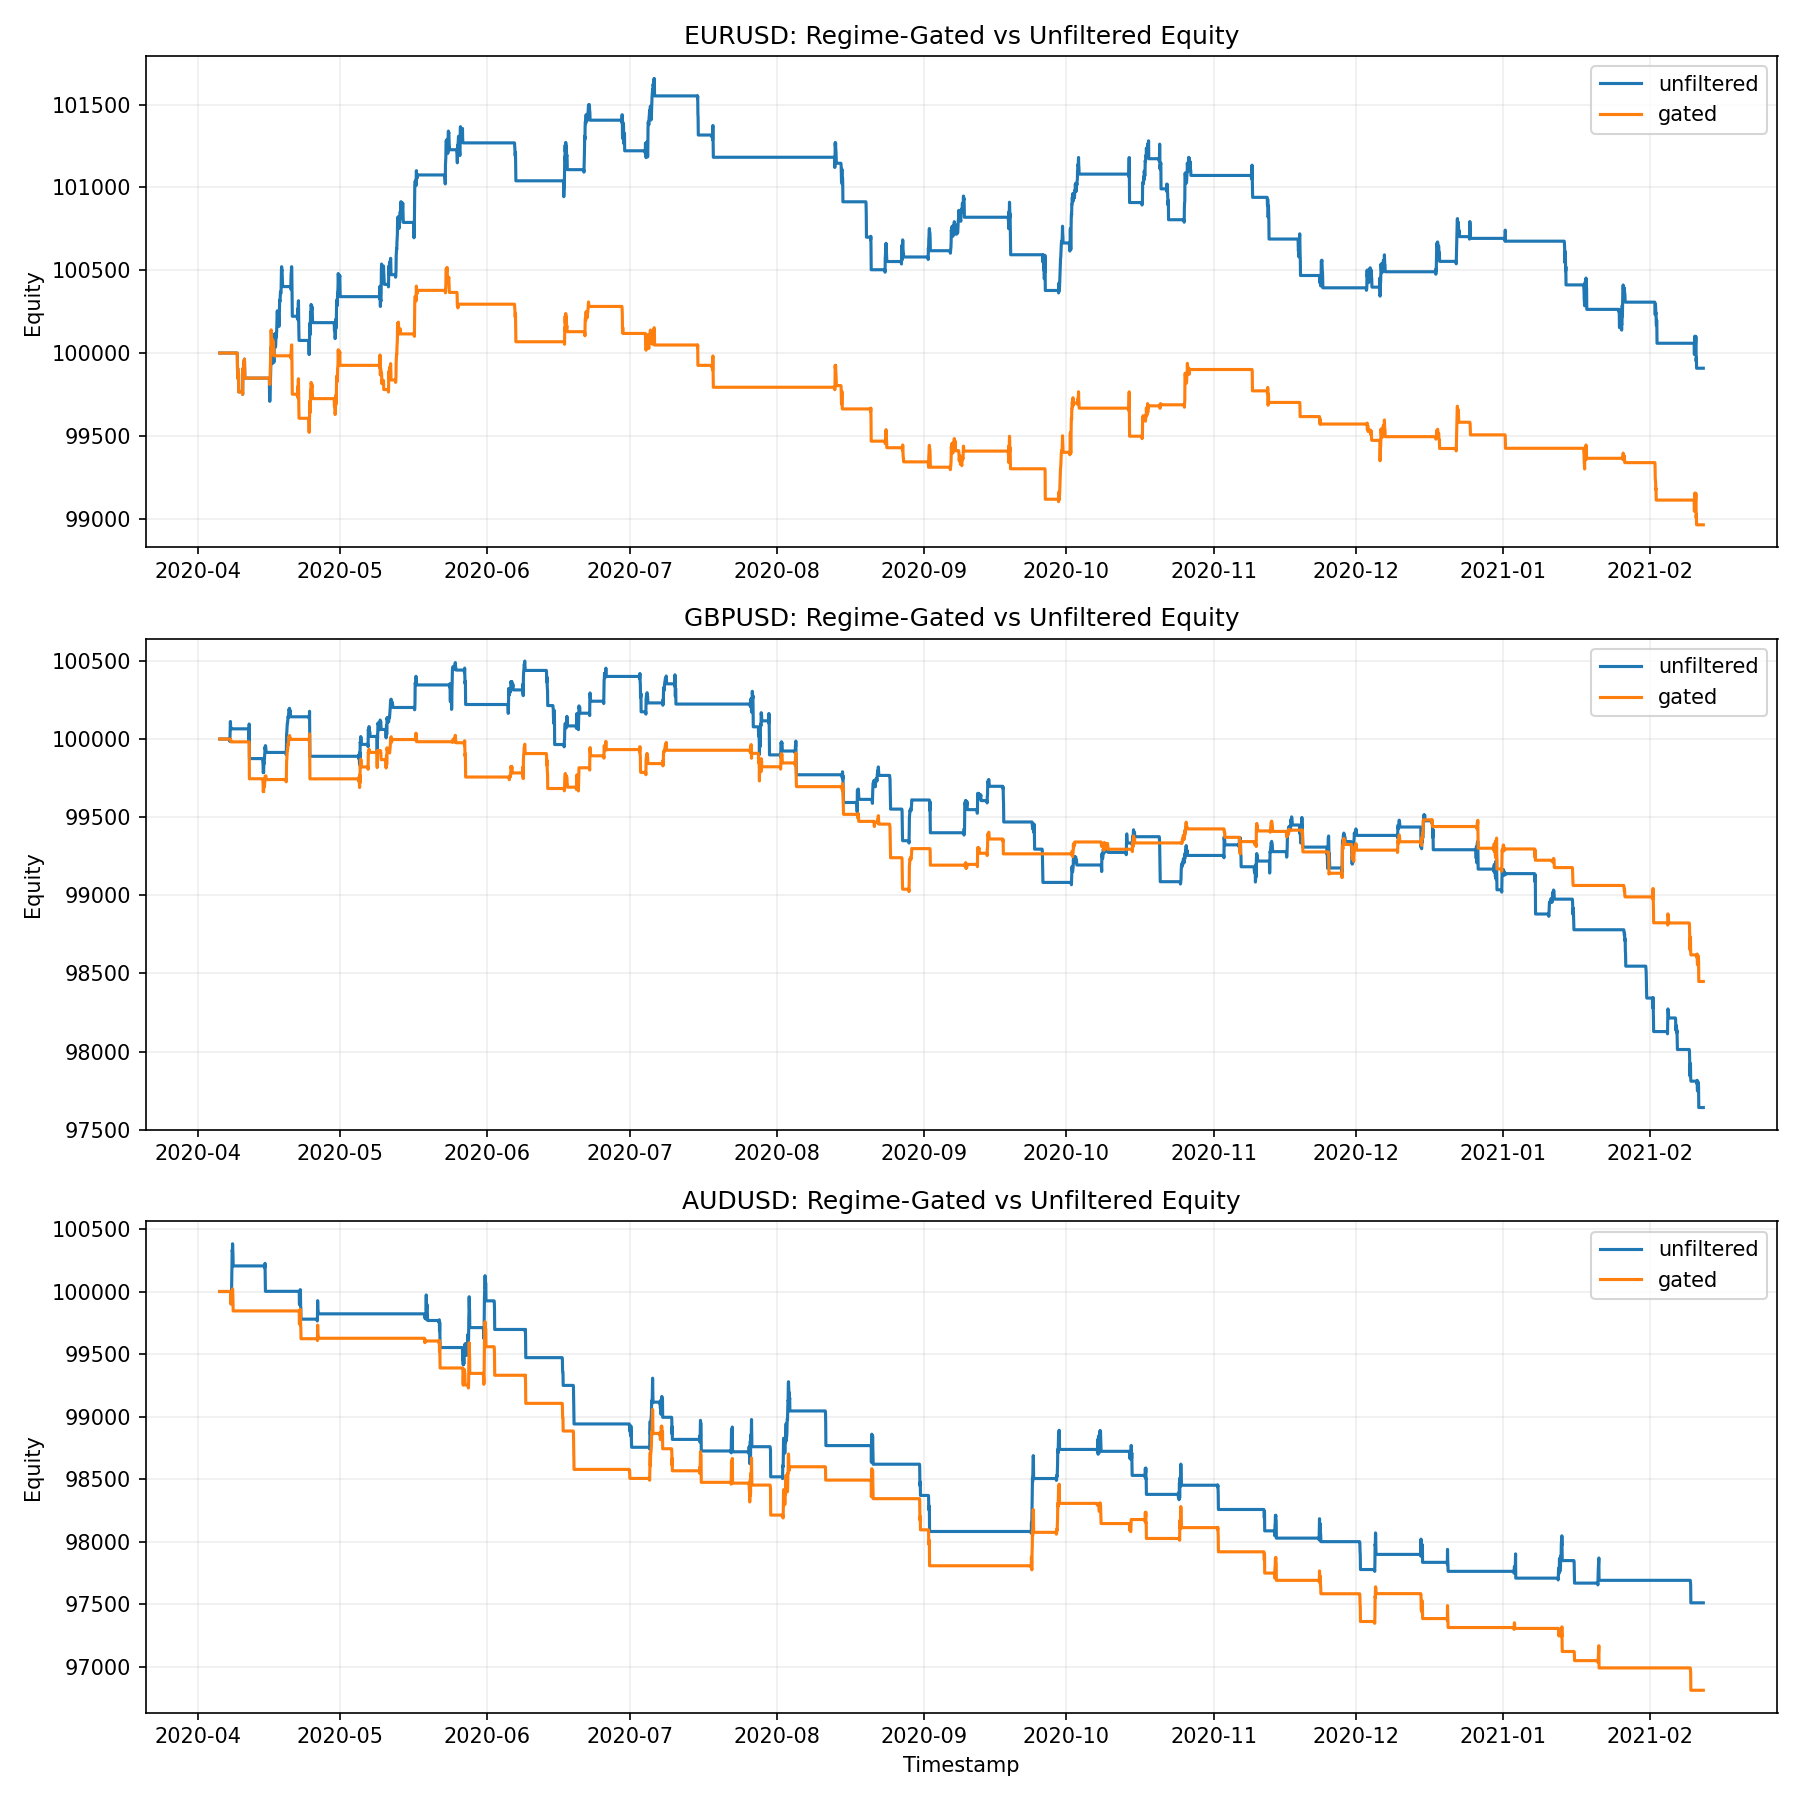
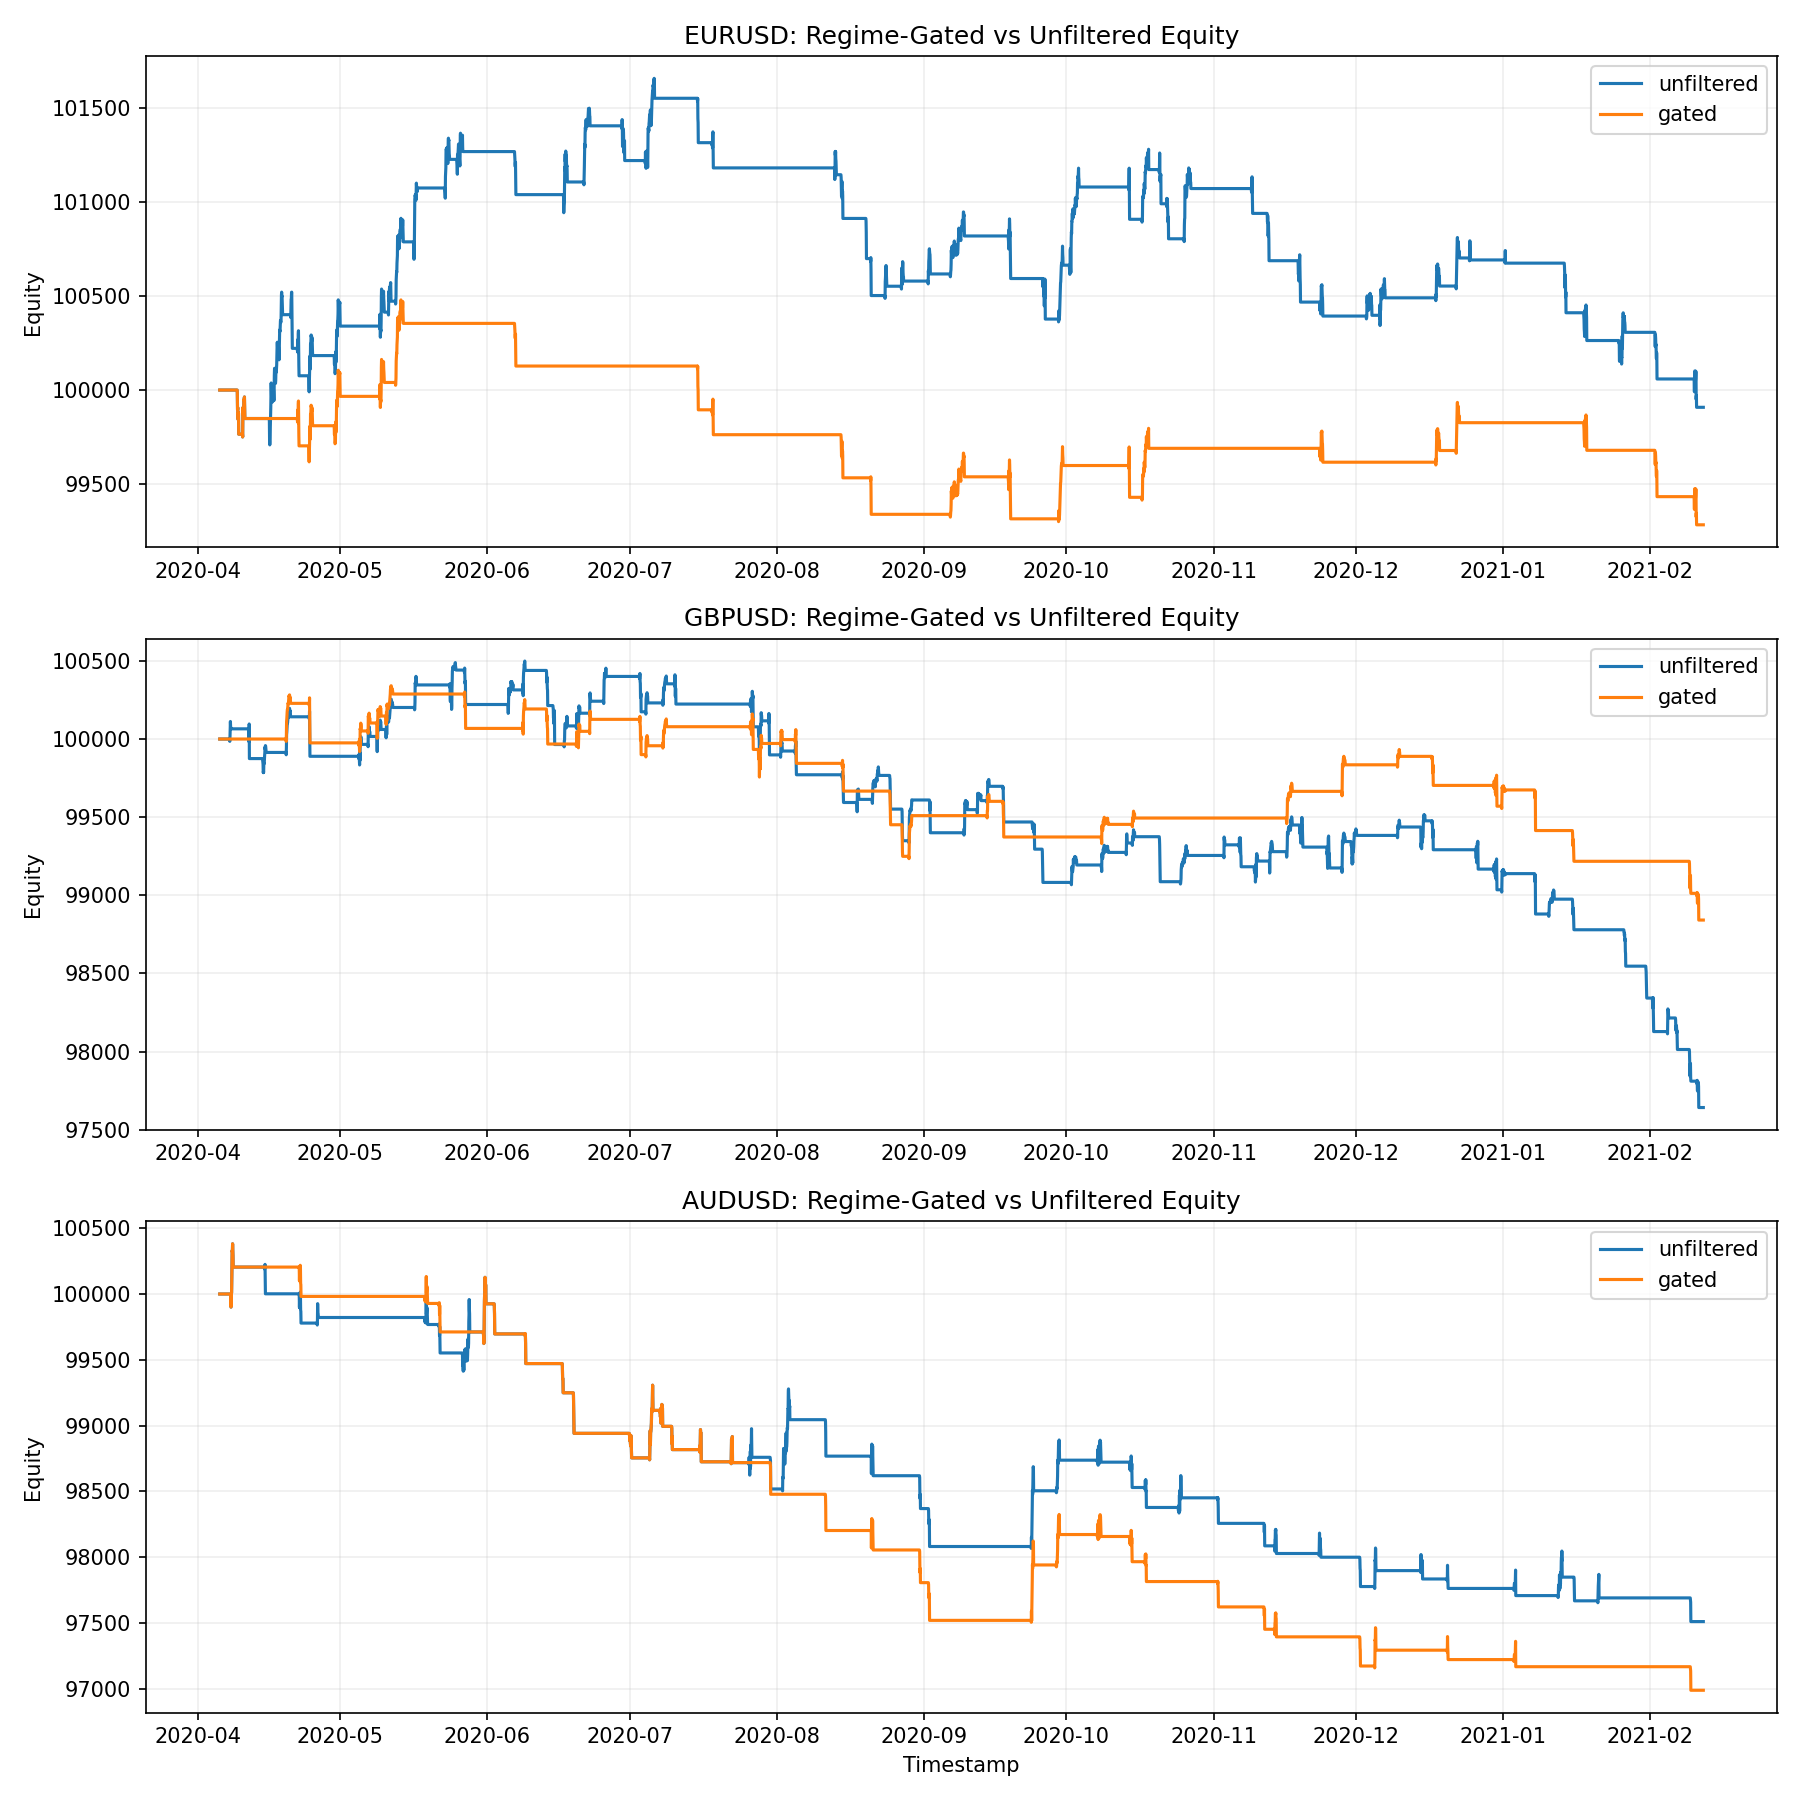
Add R1.2.3 quality-gated regime filtering layer

diff --git a/research/regime_gated_runner.py b/research/regime_gated_runner.py
@@ -198,7 +198,114 @@ def _prepare_symbol_frame(
     return df.dropna(subset=req).reset_index(drop=True)
 
 
-def apply_lookback_state_filter(df: pd.DataFrame, params: dict[str, Any]) -> tuple[pd.Series, pd.DataFrame]:
+def _compute_quality_features(
+    df: pd.DataFrame,
+    strategy_params: dict[str, Any] | None = None,
+) -> pd.DataFrame:
+    strategy_params = strategy_params or {}
+    close = pd.to_numeric(df.get("close"), errors="coerce")
+    high = pd.to_numeric(df.get("high"), errors="coerce")
+    low = pd.to_numeric(df.get("low"), errors="coerce")
+    atr = pd.to_numeric(df.get("atr_14"), errors="coerce")
+
+    lookback = int(strategy_params.get("lookback", 20))
+    velocity_lookback = int(strategy_params.get("velocity_lookback", 6))
+    lookback = max(2, lookback)
+    velocity_lookback = max(1, velocity_lookback)
+
+    range_high = high.rolling(lookback, min_periods=lookback).max().shift(1)
+    range_low = low.rolling(lookback, min_periods=lookback).min().shift(1)
+
+    # Existing breakout quality context expressed in ATR multiples.
+    breakout_velocity = (
+        (close - close.shift(velocity_lookback)).abs() / atr.replace(0.0, np.nan)
+    )
+    upper_strength = (close - range_high) / atr.replace(0.0, np.nan)
+    lower_strength = (range_low - close) / atr.replace(0.0, np.nan)
+    breakout_strength = pd.concat([upper_strength, lower_strength], axis=1).max(axis=1)
+    price_acceleration = close.diff().diff() / atr.replace(0.0, np.nan)
+    distance_from_range_high = (range_high - close) / atr.replace(0.0, np.nan)
+
+    return pd.DataFrame(
+        {
+            "breakout_velocity": breakout_velocity,
+            "breakout_strength_atr_mult": breakout_strength,
+            "price_acceleration": price_acceleration,
+            "distance_from_range_high": distance_from_range_high,
+        },
+        index=df.index,
+    )
+
+
+def apply_quality_filter(
+    df: pd.DataFrame,
+    params: dict[str, Any],
+    strategy_params: dict[str, Any] | None = None,
+) -> tuple[pd.Series, pd.DataFrame]:
+    quality_features = _compute_quality_features(df, strategy_params=strategy_params)
+
+    velocity_threshold = float(params.get("velocity_threshold", 1.0))
+    strength_threshold = float(params.get("strength_threshold", 0.5))
+    acceleration_threshold = float(params.get("acceleration_threshold", 0.0))
+
+    cond_velocity = quality_features["breakout_velocity"] > velocity_threshold
+    cond_strength = quality_features["breakout_strength_atr_mult"] > strength_threshold
+    cond_acceleration = quality_features["price_acceleration"] > acceleration_threshold
+
+    quality_allow = (cond_velocity | cond_strength | cond_acceleration).fillna(False).astype(bool)
+    quality_diag = quality_features.copy()
+    quality_diag["quality_allow"] = quality_allow.astype(int)
+    return quality_allow, quality_diag
+
+
+def _apply_entry_gate_to_signal(raw_signal: pd.Series, gate_mask: pd.Series) -> pd.Series:
+    """
+    Apply gate on entry/flip events only to avoid bar-to-bar gate churn.
+    Strategy exits and in-trade sizing updates are preserved.
+    """
+    raw = pd.to_numeric(raw_signal, errors="coerce").fillna(0.0).astype(float)
+    gate = gate_mask.fillna(False).astype(bool)
+    out = pd.Series(0.0, index=raw.index, dtype=float)
+    eps = 1e-12
+
+    for i in range(len(raw)):
+        raw_i = float(raw.iloc[i])
+        raw_prev = float(raw.iloc[i - 1]) if i > 0 else 0.0
+        out_prev = float(out.iloc[i - 1]) if i > 0 else 0.0
+
+        raw_prev_nonzero = abs(raw_prev) > eps
+        raw_nonzero = abs(raw_i) > eps
+        out_prev_nonzero = abs(out_prev) > eps
+
+        # Raw entry events: flat -> non-flat, or sign flip.
+        is_entry_event = (not raw_prev_nonzero and raw_nonzero) or (
+            raw_prev_nonzero and raw_nonzero and (np.sign(raw_prev) != np.sign(raw_i))
+        )
+
+        if is_entry_event:
+            out.iloc[i] = raw_i if bool(gate.iloc[i]) else 0.0
+            continue
+
+        # Preserve raw exits.
+        if not raw_nonzero:
+            out.iloc[i] = 0.0
+            continue
+
+        # If currently in a gated trade, follow raw sizing updates in same direction.
+        if out_prev_nonzero and np.sign(raw_i) == np.sign(out_prev):
+            out.iloc[i] = raw_i
+        else:
+            # Raw has a non-zero value but no new entry event; stay flat.
+            out.iloc[i] = 0.0
+
+    return out
+
+
+def apply_lookback_state_filter(
+    df: pd.DataFrame,
+    params: dict[str, Any],
+    strategy_params: dict[str, Any] | None = None,
+) -> tuple[pd.Series, pd.DataFrame]:
     """
     Lookback-sequenced regime gate:
       COMPRESSION (recent) -> EXPANSION (recent) -> EMERGING TREND (now)
@@ -238,12 +345,18 @@ def apply_lookback_state_filter(df: pd.DataFrame, params: dict[str, Any]) -> tup
         compression_window, min_periods=max(5, compression_window // 3)
     ).mean()
 
-    allow = (
+    regime_allow = (
         (adx_slope > adx_slope_threshold)
         & (atr_expansion_recent > atr_expansion_threshold)
         & (pct_recent_low_vol > compression_threshold)
     )
-    allow = allow.fillna(False).astype(bool)
+    regime_allow = regime_allow.fillna(False).astype(bool)
+    quality_allow, quality_diag = apply_quality_filter(
+        df=df,
+        params=params,
+        strategy_params=strategy_params,
+    )
+    final_allow = (regime_allow & quality_allow).fillna(False).astype(bool)
 
     diagnostics = pd.DataFrame(
         {
@@ -251,11 +364,17 @@ def apply_lookback_state_filter(df: pd.DataFrame, params: dict[str, Any]) -> tup
             "atr_ratio": atr_ratio,
             "atr_expansion_recent": atr_expansion_recent,
             "pct_recent_low_vol": pct_recent_low_vol,
-            "state_allow": allow.astype(int),
+            "breakout_velocity": quality_diag["breakout_velocity"],
+            "breakout_strength_atr_mult": quality_diag["breakout_strength_atr_mult"],
+            "price_acceleration": quality_diag["price_acceleration"],
+            "distance_from_range_high": quality_diag["distance_from_range_high"],
+            "regime_allow": regime_allow.astype(int),
+            "quality_allow": quality_allow.astype(int),
+            "state_allow": final_allow.astype(int),
         },
         index=df.index,
     )
-    return allow, diagnostics
+    return final_allow, diagnostics
 
 
 def _annualized_sharpe(returns: pd.Series, timeframe: str) -> float:
@@ -395,8 +514,12 @@ def run_regime_gated_evaluation(
                 continue
 
             raw_signal = trend_breakout_v2_signals(test_df, hardened_params).astype(float)
-            gate_mask, state_diag = apply_lookback_state_filter(test_df, gating_params)
-            gated_signal = raw_signal.where(gate_mask, 0.0)
+            gate_mask, state_diag = apply_lookback_state_filter(
+                test_df,
+                gating_params,
+                strategy_params=hardened_params,
+            )
+            gated_signal = _apply_entry_gate_to_signal(raw_signal, gate_mask)
 
             entries_total = float(((raw_signal != 0) & (raw_signal.shift(1).fillna(0) == 0)).sum())
             entries_allowed = float(
@@ -428,6 +551,15 @@ def run_regime_gated_evaluation(
                     ),
                     "pct_recent_low_vol_mean": _safe_float(
                         state_diag["pct_recent_low_vol"].mean(), default=np.nan
+                    ),
+                    "pct_passing_quality_filter": _safe_float(
+                        state_diag["quality_allow"].mean(), default=np.nan
+                    ),
+                    "pct_passing_regime_filter": _safe_float(
+                        state_diag["regime_allow"].mean(), default=np.nan
+                    ),
+                    "pct_passing_both": _safe_float(
+                        state_diag["state_allow"].mean(), default=np.nan
                     ),
                 }
             )

diff --git a/run_regime_gated_evaluation.py b/run_regime_gated_evaluation.py
@@ -30,6 +30,9 @@ def _build_parser() -> argparse.ArgumentParser:
     parser.add_argument("--atr-expansion-window", type=int, default=20)
     parser.add_argument("--compression-window", type=int, default=20)
     parser.add_argument("--low-vol-percentile", type=float, default=0.3)
+    parser.add_argument("--velocity-threshold", type=float, default=1.0)
+    parser.add_argument("--strength-threshold", type=float, default=0.5)
+    parser.add_argument("--acceleration-threshold", type=float, default=0.0)
     return parser
 
 
@@ -55,6 +58,9 @@ def main() -> None:
             "atr_expansion_window": args.atr_expansion_window,
             "compression_window": args.compression_window,
             "low_vol_percentile": args.low_vol_percentile,
+            "velocity_threshold": args.velocity_threshold,
+            "strength_threshold": args.strength_threshold,
+            "acceleration_threshold": args.acceleration_threshold,
         },
     )
 
